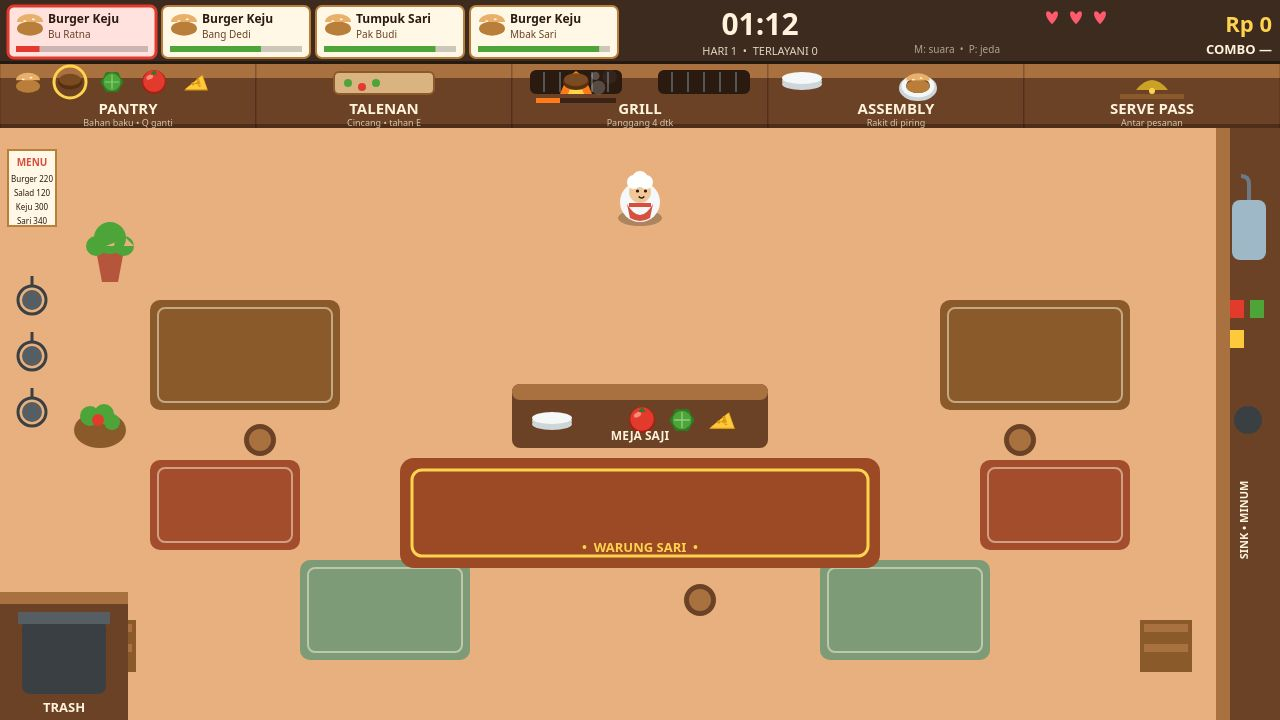
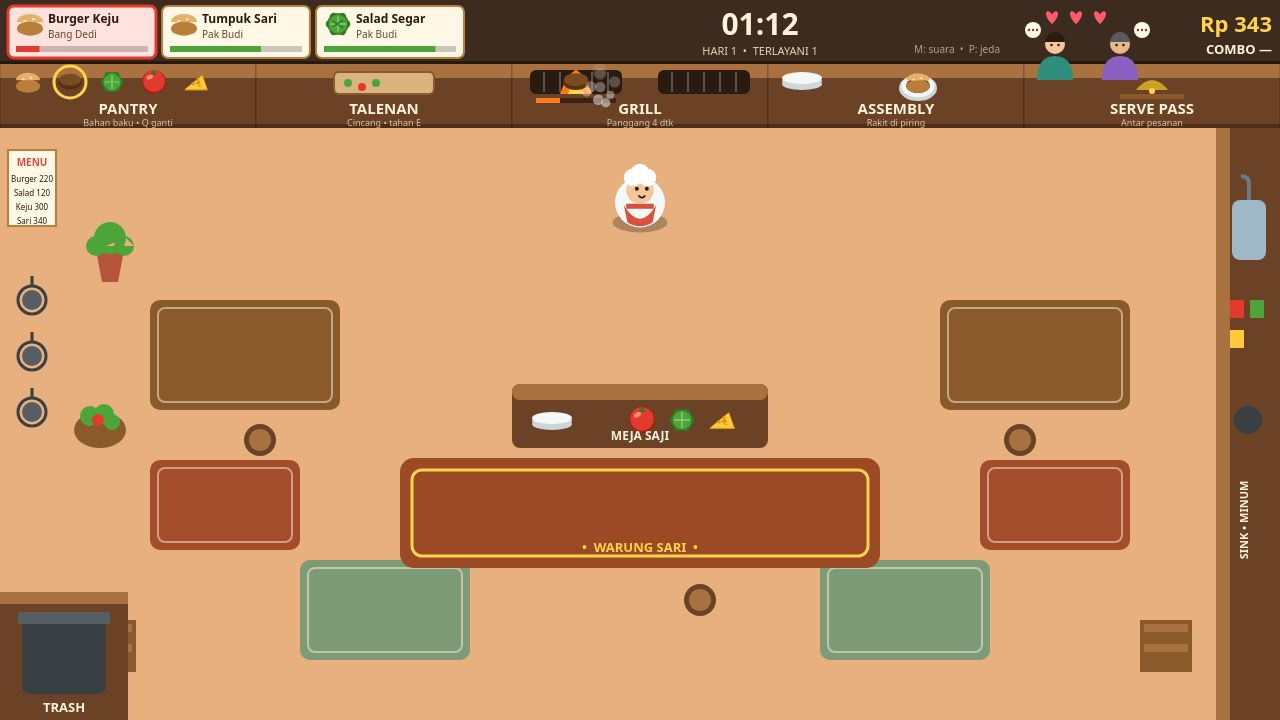
Fixer: waiting customers + bigger chef + longer play staging
- render.js: new drawWaitingCustomers() helper draws 2 waiting
  customers at the serve pass (visual only, from open tickets);
  chef drawn ~25% bigger (CHEF_DRAW_SCALE, collision untouched)
- shots.js: play scene now serves the first ticket for real before
  re-staging the mid-assembly hero frame (served 1, Rp 343)
- re-captured all 4 screenshots, all <= 256 KiB

diff --git a/game/src/render.js b/game/src/render.js
@@ -588,11 +588,70 @@ function drawIsland(ctx, state) {
   void state;
 }
 
+// Two customers waiting at the serve pass, drawn from the open tickets
+// (visual only — no logic, no collision). Heads peek above the counter's
+// top edge into the HUD band; shoulders rest on the counter top.
+function drawWaitingCustomers(ctx, customers) {
+  const waiting = customers.slice(0, 2);
+  const spots = [
+    { x: 1055, shirt: '#2f8f7a', skin: '#f2c89b', hair: '#2b1a10', bubble: -22 },
+    { x: 1120, shirt: '#8a5fc0', skin: '#e8b88a', hair: '#5a5a5a', bubble: 22 },
+  ];
+  waiting.forEach((customer, i) => {
+    const spot = spots[i];
+    if (!spot) return;
+    void customer;
+    ctx.save();
+    // Shoulders behind the counter top edge.
+    ctx.fillStyle = spot.shirt;
+    ctx.beginPath();
+    ctx.moveTo(spot.x - 18, 80);
+    ctx.quadraticCurveTo(spot.x - 18, 56, spot.x, 56);
+    ctx.quadraticCurveTo(spot.x + 18, 56, spot.x + 18, 80);
+    ctx.closePath();
+    ctx.fill();
+    // Head + hair cap.
+    ctx.fillStyle = spot.skin;
+    ctx.beginPath();
+    ctx.arc(spot.x, 44, 10, 0, Math.PI * 2);
+    ctx.fill();
+    ctx.fillStyle = spot.hair;
+    ctx.beginPath();
+    ctx.arc(spot.x, 42, 10, Math.PI, 0);
+    ctx.fill();
+    // Eyes.
+    ctx.fillStyle = '#2b1a10';
+    ctx.beginPath();
+    ctx.arc(spot.x - 3.5, 45, 1.3, 0, Math.PI * 2);
+    ctx.arc(spot.x + 3.5, 45, 1.3, 0, Math.PI * 2);
+    ctx.fill();
+    // Little "..." bubble on the outer side of the head.
+    const bx = spot.x + spot.bubble;
+    const by = 30;
+    ctx.fillStyle = '#fff8e6';
+    ctx.beginPath();
+    ctx.arc(bx, by, 8, 0, Math.PI * 2);
+    ctx.fill();
+    ctx.fillStyle = '#6b4226';
+    ctx.beginPath();
+    ctx.arc(bx - 4, by, 1.2, 0, Math.PI * 2);
+    ctx.arc(bx, by, 1.2, 0, Math.PI * 2);
+    ctx.arc(bx + 4, by, 1.2, 0, Math.PI * 2);
+    ctx.fill();
+    ctx.restore();
+  });
+}
+
+// Visual only: the chef reads ~25% bigger. Collision still uses
+// CHEF_RADIUS in world.js — this scale touches pixels, not rules.
+const CHEF_DRAW_SCALE = 1.25;
+
 function drawChef(ctx, state, t) {
   const chef = state.chef;
   const bob = chef.moving ? Math.sin(t * 12) * 2 : 0;
   ctx.save();
   ctx.translate(chef.x, chef.y + bob * 0.3);
+  ctx.scale(CHEF_DRAW_SCALE, CHEF_DRAW_SCALE);
   // Shadow.
   ctx.fillStyle = 'rgba(0,0,0,0.25)';
   ctx.beginPath();
@@ -638,9 +697,9 @@ function drawChef(ctx, state, t) {
   ctx.fillStyle = '#d94f3d';
   ctx.fillRect(-11, 3, 22, 4);
   ctx.restore();
-  // Carried item floats above the hat.
+  // Carried item floats above the taller hat.
   if (state.carry) {
-    const cy = chef.y - 44 + Math.sin(t * 3) * 2;
+    const cy = chef.y - 52 + Math.sin(t * 3) * 2;
     if (state.carry.kind === 'plate') {
       drawPlate(ctx, chef.x, cy, 46, state.carry.contents);
     } else {
@@ -656,11 +715,11 @@ function drawChef(ctx, state, t) {
     ctx.strokeStyle = 'rgba(0,0,0,0.35)';
     ctx.lineWidth = 5;
     ctx.beginPath();
-    ctx.arc(chef.x, chef.y - 30, 16, 0, Math.PI * 2);
+    ctx.arc(chef.x, chef.y - 38, 16, 0, Math.PI * 2);
     ctx.stroke();
     ctx.strokeStyle = '#ffd34d';
     ctx.beginPath();
-    ctx.arc(chef.x, chef.y - 30, 16, -Math.PI / 2, -Math.PI / 2 + state.chopping.progress * Math.PI * 2);
+    ctx.arc(chef.x, chef.y - 38, 16, -Math.PI / 2, -Math.PI / 2 + state.chopping.progress * Math.PI * 2);
     ctx.stroke();
   }
   // Click-target marker.
@@ -925,6 +984,7 @@ export function draw(ctx, world, t) {
   drawChef(ctx, state, t);
   drawFloaters(ctx, state);
   drawHud(ctx, state, t);
+  drawWaitingCustomers(ctx, state.orders);
   drawBanner(ctx, state);
   ctx.restore();
   if (state.screen === SCREEN_TITLE) drawTitle(ctx, state, t);

diff --git a/game/src/shots.js b/game/src/shots.js
@@ -2,7 +2,7 @@
 // plays the REAL rules forward from a fresh world (teleport the chef to a
 // station, call the same tryInteract the keyboard uses, step the clock), so
 // the frame is genuine gameplay and the same seed always gives the same frame.
-import { STATIONS, INGREDIENTS } from './config.js';
+import { STATIONS, INGREDIENTS, RECIPES } from './config.js';
 import { SCREEN_TITLE, SCREEN_PLAY, SCREEN_OVER } from './render.js';
 
 const SAMPLE = 1 / 60;
@@ -51,12 +51,71 @@ function stageStart(world) {
   return { screen: SCREEN_TITLE, best: 0 };
 }
 
-// play: mid-shift hero. Chef at the grill, one patty cooking, a plate on the
-// assembly counter holding bun + grilled patty, one ticket urgent, timer 01:12.
+// Chop a raw lettuce/tomato from the pantry: hold interact at the talenan.
+function chopFromPantry(world, ingredientId) {
+  takeFromPantry(world, ingredientId);
+  const at = frontOf('talenan');
+  go(world, at.x, at.y);
+  act(world);
+  wait(world, 1.4, { ...IDLE, interactHeld: true });
+}
+
+// Grill one patty from the pantry and carry the grilled patty back.
+function grillPatty(world) {
+  takeFromPantry(world, 'patty');
+  const at = frontOf('grill');
+  go(world, at.x, at.y);
+  act(world);
+  wait(world, 4.5);
+  act(world);
+}
+
+// Carry whatever the chef holds onto the plate at the assembly counter.
+function addCarriedToPlate(world) {
+  const at = frontOf('assembly');
+  go(world, at.x, at.y);
+  act(world);
+}
+
+// Build the first open ticket's dish from scratch and serve it, using the
+// same tryInteract the keyboard uses. Staging script only, never the rules:
+// each step is a real pickup / chop / grill / plate / serve.
+function serveFirstOrder(world) {
+  const order = world.state.orders[0];
+  if (!order) return;
+  const recipe = RECIPES[order.recipeIndex];
+  // Fresh plate on the assembly counter.
+  let at = frontOf('assembly');
+  go(world, at.x, at.y);
+  act(world);
+  for (const need of recipe.needs) {
+    if (need.id === 'patty') {
+      grillPatty(world);
+    } else if (need.state === 'chopped') {
+      chopFromPantry(world, need.id);
+    } else {
+      takeFromPantry(world, need.id);
+    }
+    addCarriedToPlate(world);
+  }
+  // Pick the finished plate up and serve it.
+  at = frontOf('assembly');
+  go(world, at.x, at.y);
+  act(world);
+  at = frontOf('serve');
+  go(world, at.x, at.y);
+  act(world);
+}
+
+// play: mid-shift hero. First the opening ticket is served for real (so the
+// cover shows served >= 1 and coins > 0), then a fresh plate is built
+// mid-assembly — bun + grilled patty on the counter, a second patty cooking,
+// one ticket urgent, timer 01:12.
 function stagePlay(world) {
   world.spawnOrder();
   world.spawnOrder();
   world.spawnOrder();
+  serveFirstOrder(world);
   // Plate first: empty hands at assembly puts a fresh plate on the counter.
   let at = frontOf('assembly');
   go(world, at.x, at.y);
